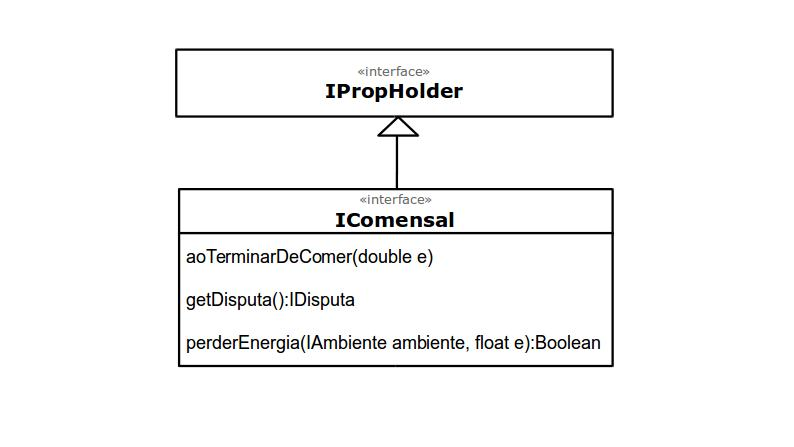
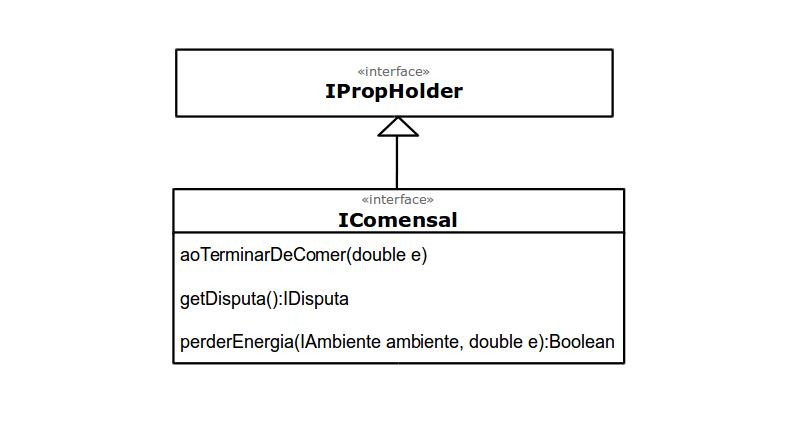
Corrige IComensal

Changed region(s): [[0.2116, 0.4072, 0.7859, 0.8434]]

diff --git a/README.md b/README.md
@@ -109,7 +109,7 @@ public void algoInteressante(…) {
 
 ## Diagrama Geral de Componentes
 
-> ![Diagrama Geral de Componentes](docs/img/DiagramaGeralComponentes.jpg)
+> ![Diagrama Geral de Componentes](docs/img/DiagramaComponentes.jpg)
 
 > No diagrama apresentado, podemos ver como os componentes se comunicam entre si, e também como é feita a comunicação com o usuário
 
